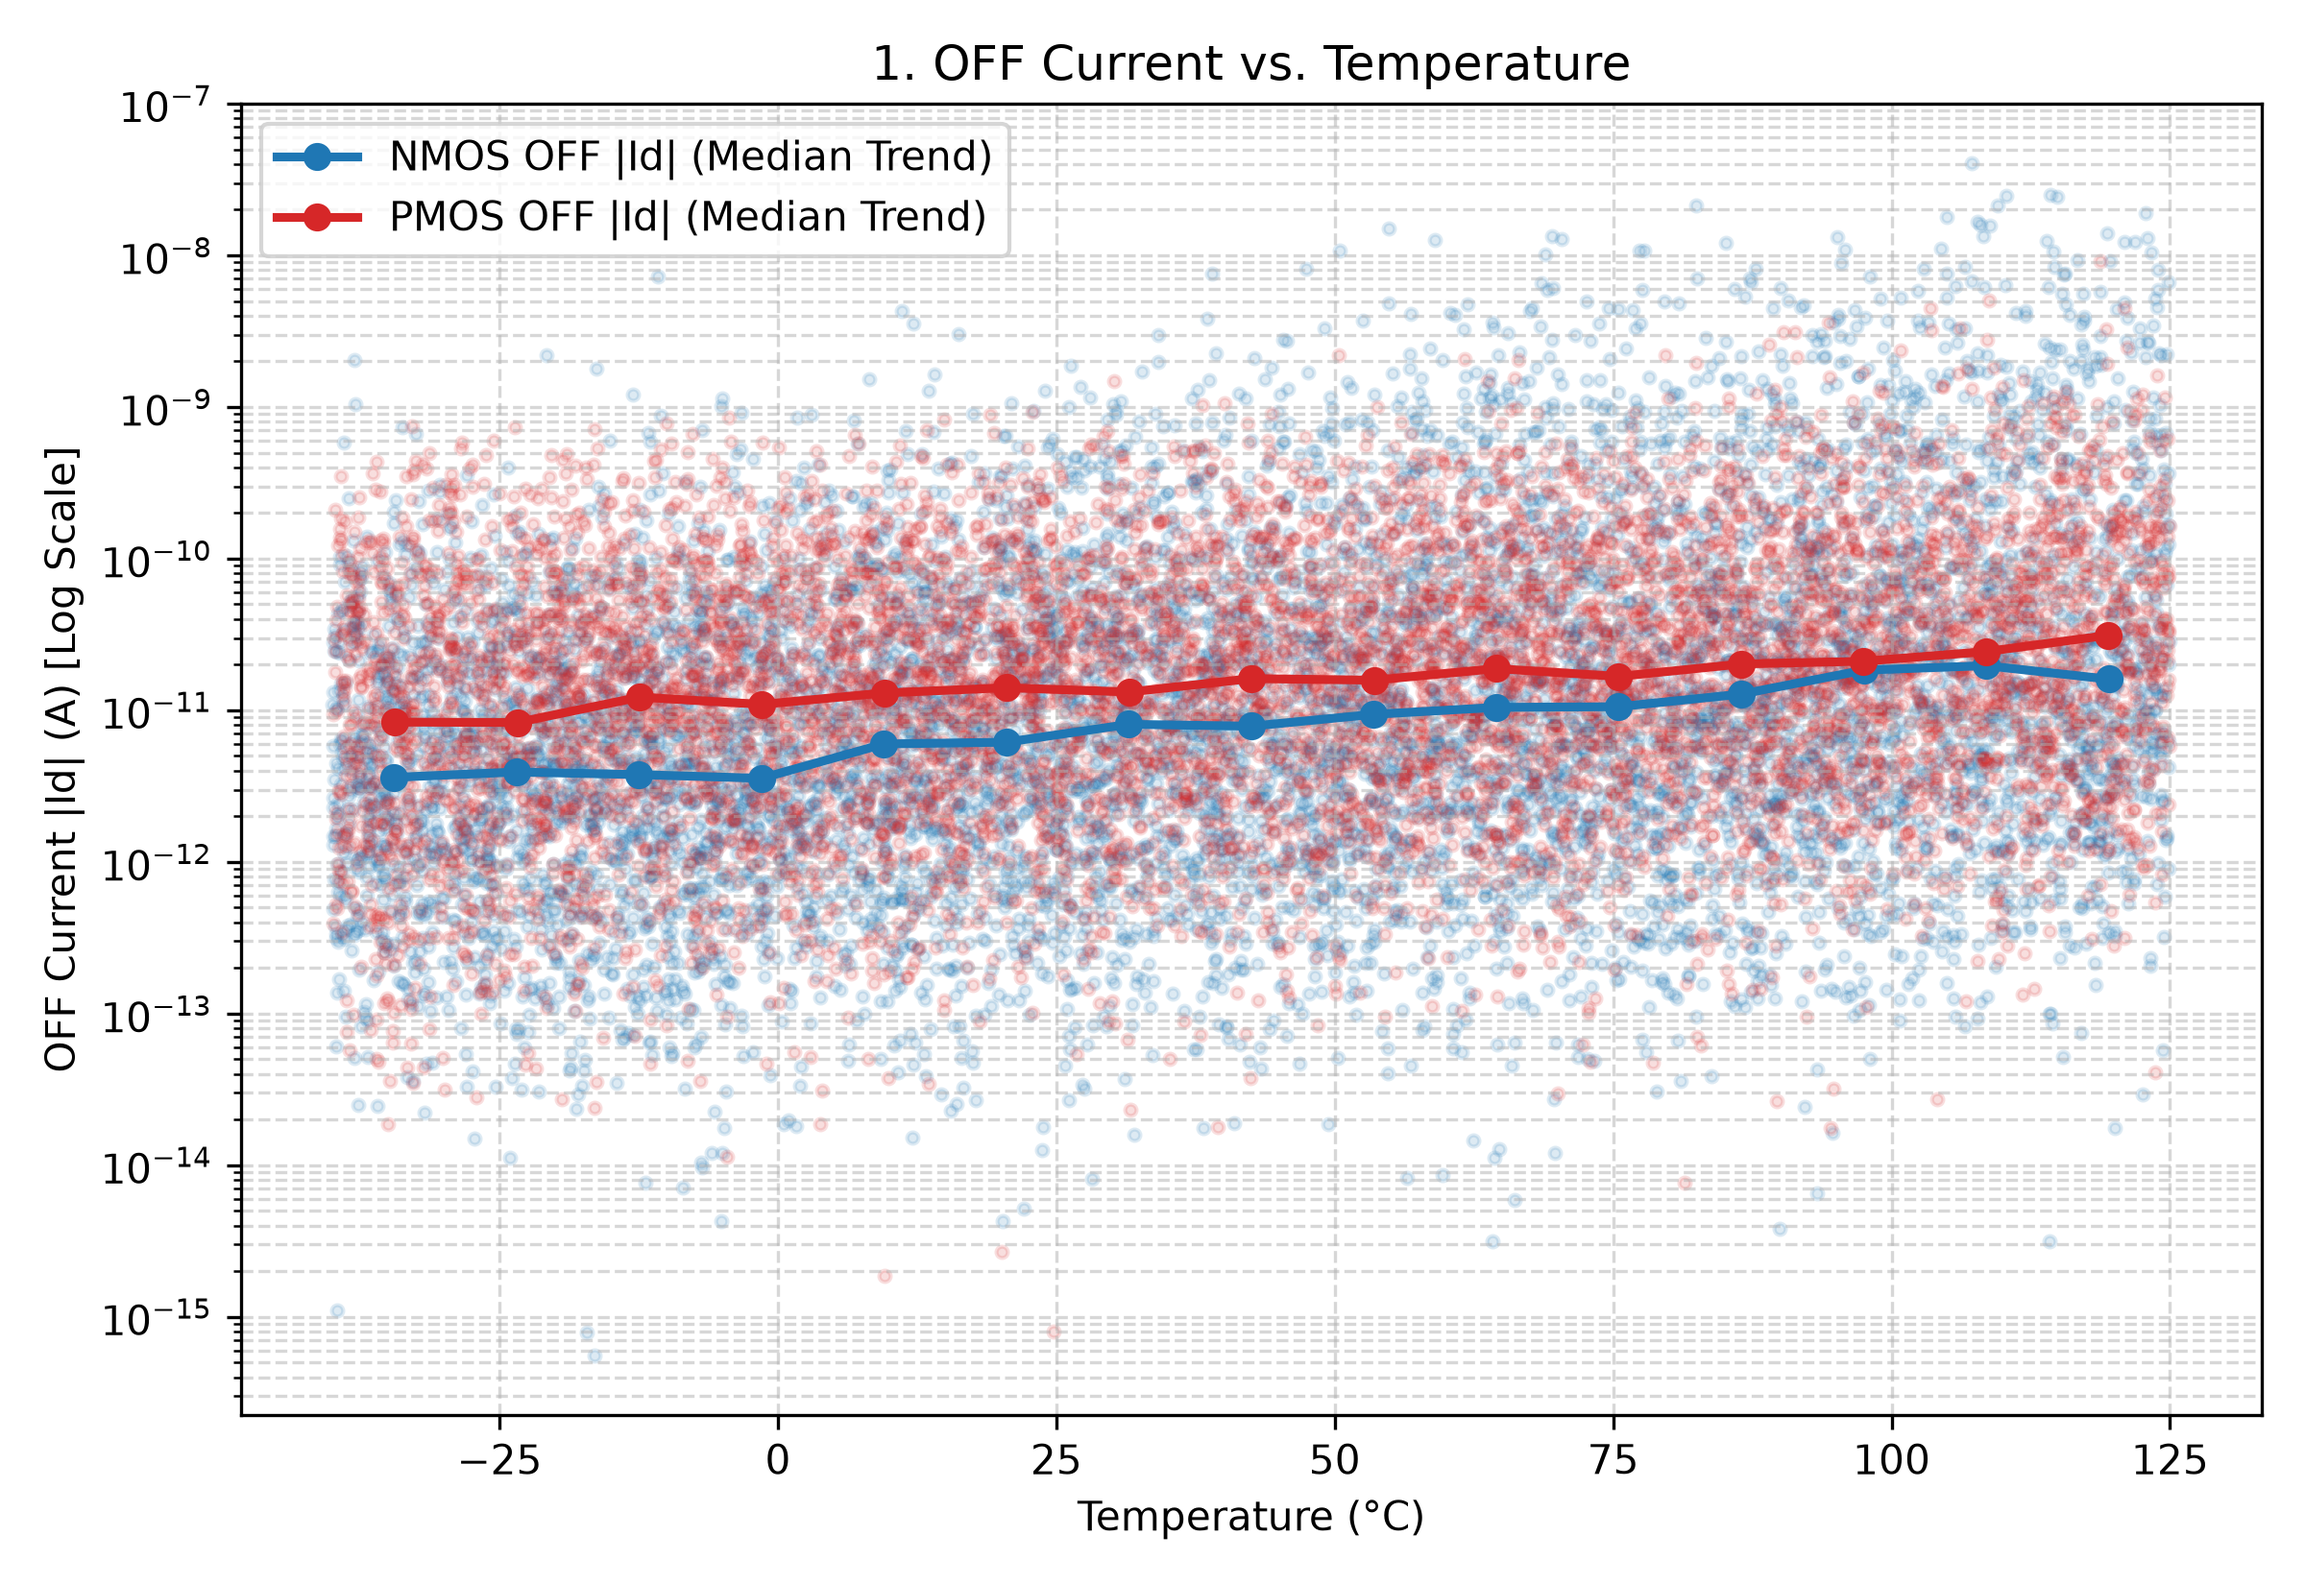
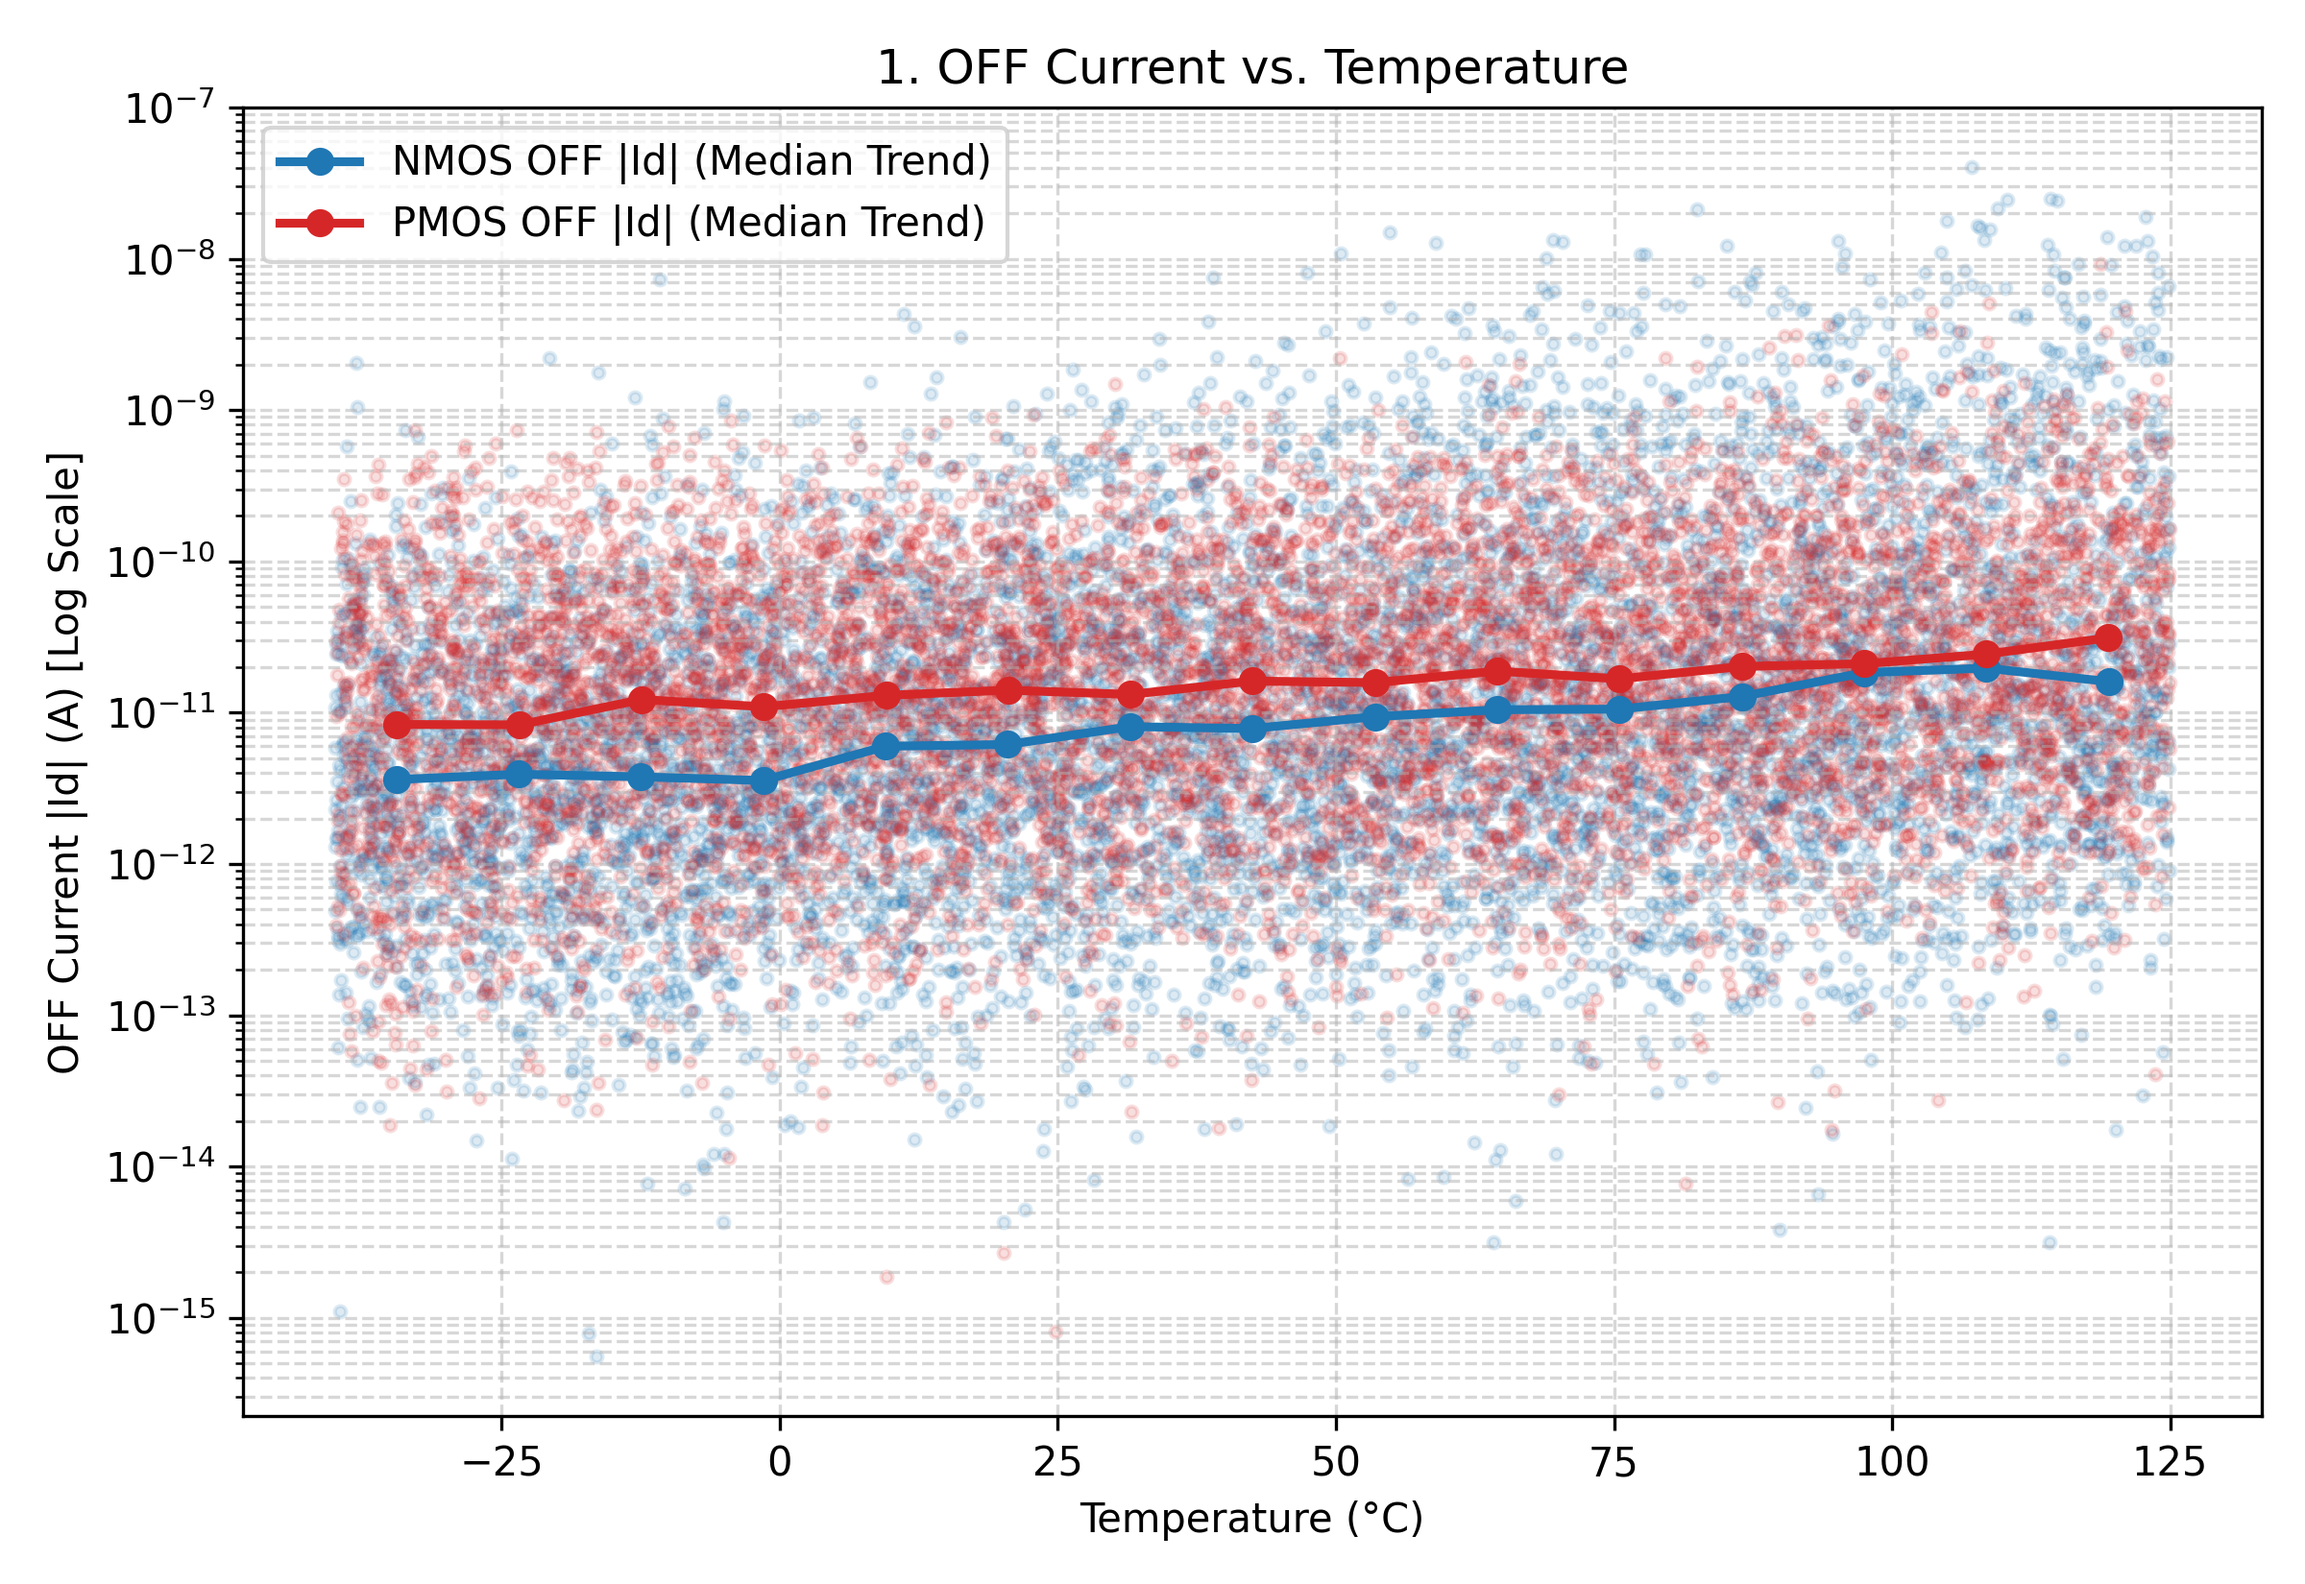
Rename the vtho column to vth0, as the spec names it
The four CSV headers, generate_data.py and check_data.py now use vth0, and
plot 2 is regenerated as plot2_off_current_vs_vth0.png. Only the header line
of each CSV changes; the 10,000 data rows are byte-identical, so no results
change. The loader still accepts the old "vtho" spelling.

Changed region(s): [[0.0, 0.0309, 1.0, 0.9582], [0.4688, 0.9273, 0.5625, 0.9891]]

diff --git a/data_set_generattion/check_data.py b/data_set_generattion/check_data.py
@@ -74,21 +74,21 @@ plt.savefig("plot1_off_current_vs_temperature.png", dpi=300)
 
 fig, ax = plt.subplots(figsize=(8, 5.5))
 
-plot_binned_trend(ax, n_off['vtho'].abs().values, n_off['id'].abs().values,
+plot_binned_trend(ax, n_off['vth0'].abs().values, n_off['id'].abs().values,
                   'tab:blue', 'NMOS OFF |Id|')
 
-plot_binned_trend(ax, p_off['vtho'].abs().values, p_off['id'].abs().values,
+plot_binned_trend(ax, p_off['vth0'].abs().values, p_off['id'].abs().values,
                   'tab:red', 'PMOS OFF |Id|')
 
 ax.set_yscale('log')
-ax.set_xlabel('Threshold Voltage Magnitude |vtho| (V)')
+ax.set_xlabel('Threshold Voltage Magnitude |vth0| (V)')
 ax.set_ylabel('OFF Current |Id| (A) [Log Scale]')
-ax.set_title('2. OFF Current vs. |vtho|')
+ax.set_title('2. OFF Current vs. |vth0|')
 ax.grid(True, which='both', linestyle='--', alpha=0.5)
 ax.legend()
 
 plt.tight_layout()
-plt.savefig("plot2_off_current_vs_vtho.png", dpi=300)
+plt.savefig("plot2_off_current_vs_vth0.png", dpi=300)
 
 
 # ============================================================
@@ -123,7 +123,7 @@ plt.savefig("plot3_gate_current_vs_toxe.png", dpi=300)
 
 print("\nSaved all three plots successfully:")
 print("1. plot1_off_current_vs_temperature.png")
-print("2. plot2_off_current_vs_vtho.png")
+print("2. plot2_off_current_vs_vth0.png")
 print("3. plot3_gate_current_vs_toxe.png")
 
 plt.show()

diff --git a/data_set_generattion/generate_data.py b/data_set_generattion/generate_data.py
@@ -75,7 +75,7 @@ def simulate_single_sample(args):
     case_name, mos_type, row_dict = args
 
     sampled_p = {
-        'vth0': row_dict['vtho'],
+        'vth0': row_dict['vth0'],
         'toxe': row_dict['toxe'],
         'ndep': row_dict['ndep'],
         'u0':   row_dict['u0'],
@@ -153,7 +153,7 @@ def generate_case_dataset(case_name, mos_type, is_on, rng):
         row = {
             'vdd': vdd, 'temp': temp, 'w': w,
             'vd': vd, 'vs': vs, 'vg': vg, 'vb': vb,
-            'vtho': draw_pm10(nom['vth0']),
+            'vth0': draw_pm10(nom['vth0']),
             'toxe': draw_pm10(nom['toxe']),
             'ndep': draw_pm10(nom['ndep']),
             'u0':   draw_pm10(nom['u0']),
@@ -169,7 +169,7 @@ def generate_case_dataset(case_name, mos_type, is_on, rng):
                 print(f"  [{case_name}] Completed {idx}/{NUM_SAMPLES} simulations...")
 
     fieldnames = ['vdd', 'temp', 'w', 'vd', 'vs', 'vg', 'vb',
-                  'vtho', 'toxe', 'ndep', 'u0', 'xj', 'id', 'ig', 'is', 'ib']
+                  'vth0', 'toxe', 'ndep', 'u0', 'xj', 'id', 'ig', 'is', 'ib']
     csv_filename = f"{case_name}.csv"
     with open(csv_filename, 'w', newline='') as f:
         writer = csv.DictWriter(f, fieldnames=fieldnames)

diff --git a/model_training/leakage_ml/config.py b/model_training/leakage_ml/config.py
@@ -45,8 +45,8 @@ CASES = {
 TARGETS = ["id", "ig", "is", "ib"]
 
 # vg and vb are fixed by the case (0 or vdd), so they carry no information
-# beyond vdd and are dropped (see data.drop_uninformative). The dataset uses
-# the column name "vtho"; it is renamed to the spec's "vth0" on load.
+# beyond vdd and are dropped (see data.drop_uninformative). Early CSVs named
+# the vth0 column "vtho"; that name is still accepted and renamed on load.
 RAW_FEATURES = ["vdd", "temp", "w", "vd", "vs", "vg", "vb",
                 "vth0", "toxe", "ndep", "u0", "xj"]
 

diff --git a/model_training/leakage_ml/data.py b/model_training/leakage_ml/data.py
@@ -11,7 +11,7 @@ from . import config as C
 def load_case(case: str) -> pd.DataFrame:
     """Read one case CSV, normalise column names and run basic sanity checks."""
     df = pd.read_csv(C.DATA_DIR / f"{case}.csv")
-    df = df.rename(columns={"vtho": "vth0"})
+    df = df.rename(columns={"vtho": "vth0"})   # old header spelling
     missing = set(C.RAW_FEATURES + C.TARGETS) - set(df.columns)
     if missing:
         raise ValueError(f"{case}: missing columns {sorted(missing)}")
